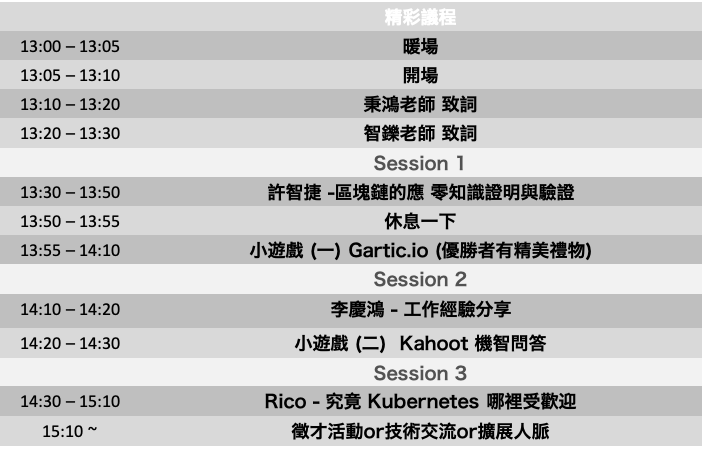
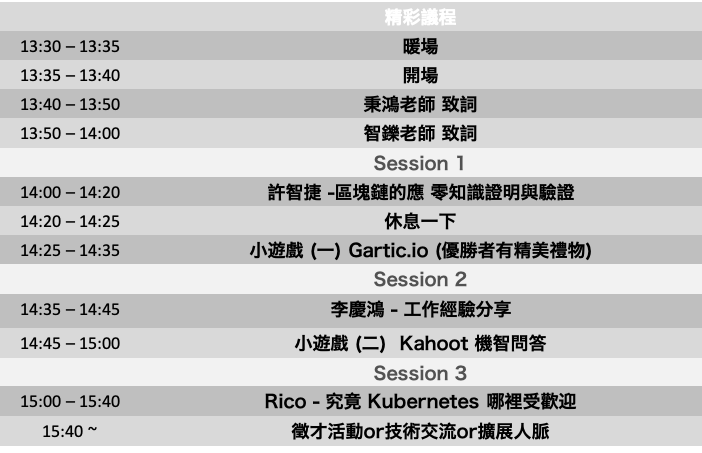
update session pic & teacher pics

diff --git a/content/sections/section1.md b/content/sections/section1.md
@@ -10,8 +10,8 @@ weight: 2
 
 ## Date
 ### 2020/11/21 (六)
-### 13:30 ~ 17:00
+### 14:00 ~ 17:00
 
 ## 地點 
-### 淡江大學台北校區504教室(近東門捷運站永康街)
+### 淡江大學台北校區 D409 教室(近東門捷運站永康街)
 ![](/img/old-buddies-pic1.png)
